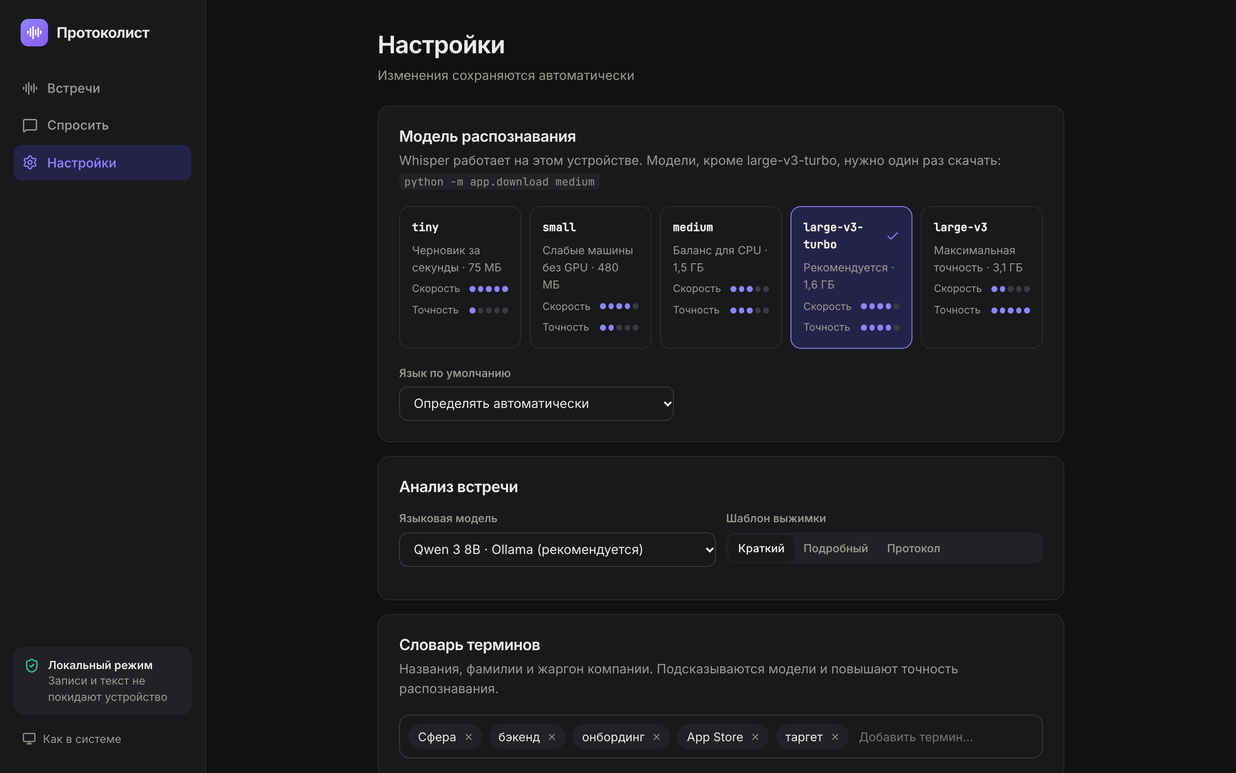
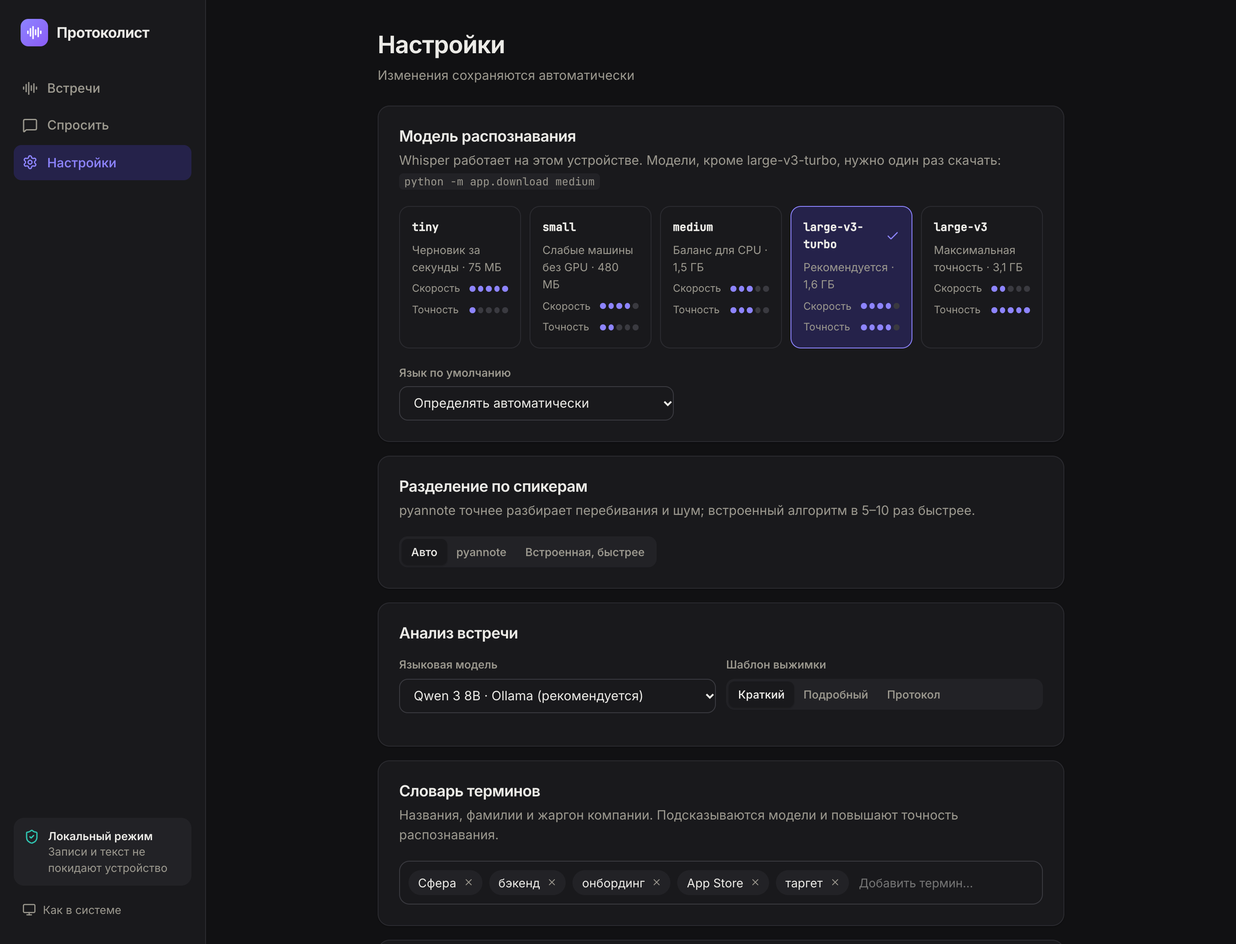
Diarization choice: pyannote community-1 or built-in clustering
- Settings switch (auto / pyannote / built-in); the API checks the model cache instead of loading it
- Bench compares both backends on two synthetic meetings
- Drop Whisper hallucination_silence_threshold: it cut real turns (WER 0.6% -> 5.2%)
- Speaker names: the LLM lists heard names, the code assigns them only from questions and answers
- Reprocess from recognition/diarization/analysis; clearer errors when Ollama is down

diff --git a/web/src/pages/Settings.tsx b/web/src/pages/Settings.tsx
@@ -96,6 +96,28 @@ export default function Settings() {
       </section>
 
       <section className="panel">
+        <h2>Разделение по спикерам</h2>
+        <p className="muted">
+          {s.pyannote_available
+            ? 'pyannote точнее разбирает перебивания и шум; встроенный алгоритм в 5–10 раз быстрее.'
+            : 'pyannote недоступна: примите условия модели на Hugging Face и выполните python -m app.download. Пока работает встроенный алгоритм.'}
+        </p>
+        <div className="seg-control">
+          {(
+            [
+              ['auto', 'Авто'],
+              ['pyannote', 'pyannote'],
+              ['clustering', 'Встроенная, быстрее'],
+            ] as const
+          ).map(([id, label]) => (
+            <button key={id} className={s.diarization === id ? 'on' : ''} onClick={() => set('diarization', id)} disabled={id === 'pyannote' && !s.pyannote_available}>
+              {label}
+            </button>
+          ))}
+        </div>
+      </section>
+
+      <section className="panel">
         <h2>Анализ встречи</h2>
         <div className="field-row">
           <label className="field">

diff --git a/web/src/api.ts b/web/src/api.ts
@@ -54,6 +54,8 @@ export type Settings = {
   template: string
   glossary: string[]
   deleteAudio: boolean
+  diarization: 'auto' | 'clustering' | 'pyannote'
+  pyannote_available?: boolean
 }
 
 export type Progress = Pick<MeetingBrief, 'status' | 'stage' | 'stage_progress' | 'error' | 'received' | 'size'>

diff --git a/bench/report.py b/bench/report.py
@@ -44,7 +44,7 @@ def main() -> None:
         if t and l:
             speedup = str(round(l["rtf"] / t["rtf"], 1)).replace(".", ",")
             out += ["", f"По умолчанию стоит large-v3-turbo: на farfield WER {pct(t['wer'])} против {pct(l['wer'])} у large-v3, а работает в {speedup} раза быстрее."]
-        d = load("diarization.json")
+        d = load("diarization.json").get("sfera")
         if d:
             rtf = str(round(d["asr_seconds"] / d["audio_seconds"], 2)).replace(".", ",")
             out += ["", f"RTF в таблице завышен для всех моделей: каждая фраза Golos длится 2–5 с, а Whisper обрабатывает окно в 30 с. На сплошной записи встречи turbo работает с RTF {rtf} ({d['audio_seconds']:.0f} с записи за {d['asr_seconds']:.0f} с, вместе с загрузкой модели)."]
@@ -52,16 +52,23 @@ def main() -> None:
 
     d = load("diarization.json")
     if d:
-        a, o = d["auto"], d["oracle_count"]
+        titles = {"sfera": "Планёрка, 4 спикера", "client": "Созвон с клиентом, 3 спикера"}
         out += [
-            f"**Диаризация** — синтетическая встреча из 16 реплик 4 спикеров ({d['audio_seconds']:.0f} с, `bench/make_synthetic.py`), встроенный алгоритм, DER с допуском 0,25 с на границах:",
+            "**Диаризация** — две синтетические встречи (`bench/make_synthetic.py`), DER с допуском 0,25 с на границах (меньше — лучше), число спикеров определяется автоматически:",
             "",
-            "| Число спикеров | Найдено | DER | Из них путаница спикеров |",
-            "|---|---|---|---|",
-            f"| определяется автоматически | {a['speakers_hyp']} из {a['speakers_ref']} | {pct(a['der'])} | {pct(a['confusion'])} |",
-            f"| задано пользователем | {o['speakers_hyp']} из {o['speakers_ref']} | {pct(o['der'])} | {pct(o['confusion'])} |",
+            "| Встреча | Встроенная (кластеризация) | pyannote community-1 |",
+            "|---|---|---|",
+        ]
+        for name, r in d.items():
+            c, p_ = r.get("clustering_auto"), r.get("pyannote_auto")
+            cell = lambda x: f"DER {pct(x['der'])}, {x['speakers_hyp']} из {x['speakers_ref']} спикеров, {str(x['seconds']).replace('.', ',')} с" if x else "—"  # noqa: E731
+            out.append(f"| {titles.get(name, name)} ({r['audio_seconds']:.0f} с) | {cell(c)} | {cell(p_)} |")
+        wers = ", ".join(f"{titles.get(n, n).split(',')[0].lower()} — {pct(r['wer'])}" for n, r in d.items())
+        out += [
             "",
-            f"WER всего пайплайна на этой записи — {pct(d['wer'])}. Синтетика — один голос TTS с разным тоном: это проверка на регрессии, а не оценка на реальных встречах.",
+            f"WER всего пайплайна на этих записях: {wers}. Синтетика — один голос TTS с разным тоном, без перебиваний и шума: "
+            "на ней встроенный алгоритм не хуже pyannote и в разы быстрее, но это проверка на регрессии, а не оценка на реальных встречах. "
+            "pyannote умеет разбирать одновременную речь, поэтому в режиме «Авто» используется она, если доступна; выбор — в настройках.",
             "",
         ]
 

diff --git a/bench/diarization.py b/bench/diarization.py
@@ -1,5 +1,5 @@
-"""Diarization on the synthetic 4-speaker meeting (bench/make_synthetic.py): DER with and without
-the speaker count, plus WER of the whole pipeline text.
+"""Diarization on the synthetic meetings (bench/make_synthetic.py): DER for pyannote and the built-in
+clustering, with and without the speaker count, plus WER of the whole pipeline text.
 
     python bench/diarization.py
 
@@ -21,36 +21,40 @@ from metrics import der, wer  # noqa: E402
 HERE = os.path.dirname(os.path.abspath(__file__))
 
 
-def main(name: str = "sfera") -> None:
+def main(names=("sfera", "client")) -> None:
     from app import ml
     from app.text import build_segments
 
-    ref = json.load(open(os.path.join(HERE, "data", f"{name}.json"), encoding="utf-8"))
-    tmp = tempfile.mkdtemp()
-    wav = os.path.join(tmp, "a.wav")
-    ml.prepare_audio(os.path.join(HERE, "data", f"{name}.wav"), wav, os.path.join(tmp, "a.m4a"))
-
-    t0 = time.perf_counter()
-    asr = ml.transcribe(wav, "large-v3-turbo", "ru", None, lambda f: None)
-    asr_time = time.perf_counter() - t0
-    out = {
-        "audio_seconds": round(ref["turns"][-1]["end"], 1),
-        "asr_seconds": round(asr_time, 1),
-        "wer": round(wer([" ".join(t["text"] for t in ref["turns"])], ["".join(w["word"] for w in asr["words"])]), 4),
-    }
-    for label, num in (("auto", None), ("oracle_count", ref["speakers"])):
+    backends = ["clustering"] + (["pyannote"] if ml.diarization_backend() == "pyannote" else [])
+    out = {}
+    for name in names:
+        ref = json.load(open(os.path.join(HERE, "data", f"{name}.json"), encoding="utf-8"))
+        tmp = tempfile.mkdtemp()
+        wav = os.path.join(tmp, "a.wav")
+        ml.prepare_audio(os.path.join(HERE, "data", f"{name}.wav"), wav, os.path.join(tmp, "a.m4a"))
         t0 = time.perf_counter()
-        turns, backend = ml.diarize(wav, num, lambda f: None, asr["words"])
-        spent = time.perf_counter() - t0
-        # Score what the user sees: speaker turns after aligning words to diarization.
-        segs = build_segments(asr["words"], turns)
-        hyp = [{"speaker": s["speaker"], "start": s["start"], "end": s["end"]} for s in segs]
-        out[label] = {**der(ref["turns"], hyp), "backend": backend, "seconds": round(spent, 1)}
-        print(label, out[label], flush=True)
-    print("wer", out["wer"], "asr", out["asr_seconds"], "s")
+        asr = ml.transcribe(wav, "large-v3-turbo", "ru", None, lambda f: None)
+        res = {
+            "audio_seconds": round(ref["turns"][-1]["end"], 1),
+            "speakers": ref["speakers"],
+            "asr_seconds": round(time.perf_counter() - t0, 1),
+            "wer": round(wer([" ".join(t["text"] for t in ref["turns"])], ["".join(w["word"] for w in asr["words"])]), 4),
+        }
+        for backend in backends:
+            for label, num in (("auto", None), ("oracle_count", ref["speakers"])):
+                t0 = time.perf_counter()
+                turns, _ = ml.diarize(wav, num, lambda f: None, asr["words"], backend=backend)
+                spent = time.perf_counter() - t0
+                # Score what the user sees: speaker turns after aligning words to diarization.
+                segs = build_segments(asr["words"], turns)
+                hyp = [{"speaker": s["speaker"], "start": s["start"], "end": s["end"]} for s in segs]
+                res[f"{backend}_{label}"] = {**der(ref["turns"], hyp), "seconds": round(spent, 1)}
+                print(name, backend, label, res[f"{backend}_{label}"], flush=True)
+        print(name, "wer", res["wer"], flush=True)
+        out[name] = res
     os.makedirs(os.path.join(HERE, "results"), exist_ok=True)
     json.dump(out, open(os.path.join(HERE, "results", "diarization.json"), "w"), indent=1)
 
 
 if __name__ == "__main__":
-    main()
+    main(tuple(sys.argv[1:]) or ("sfera", "client"))

diff --git a/backend/app/ml.py b/backend/app/ml.py
@@ -138,6 +138,13 @@ def _speaker_model():
     return model.eval().to(_device())
 
 
+def pyannote_downloaded() -> bool:
+    """Cheap check for the API: is the gated pipeline in the local Hugging Face cache?"""
+    from huggingface_hub import try_to_load_from_cache
+
+    return isinstance(try_to_load_from_cache(DIARIZATION_MODEL, "config.yaml"), str)
+
+
 @cache  # decided once per worker process; restart the worker after getting access to pyannote
 def diarization_backend() -> str:
     """'pyannote' when the gated pipeline is reachable, else 'clustering'."""
@@ -148,10 +155,11 @@ def diarization_backend() -> str:
         return "clustering"
 
 
-def diarize(wav: str, num_speakers: int | None, progress: Progress, words: list[dict]) -> tuple[list[dict], str]:
-    """Returns (turns, backend). Turns: [{"speaker", "start", "end"}]."""
+def diarize(wav: str, num_speakers: int | None, progress: Progress, words: list[dict], backend: str | None = None) -> tuple[list[dict], str]:
+    """Returns (turns, backend). Turns: [{"speaker", "start", "end"}].
+    backend: None picks pyannote when available; "clustering" / "pyannote" force one (bench)."""
     audio = load_wav(wav)
-    if diarization_backend() == "pyannote":
+    if (backend or diarization_backend()) == "pyannote":
         return _diarize_pyannote(audio, num_speakers, progress), "pyannote"
     return _diarize_clustering(audio, num_speakers, progress, words), "clustering"
 

diff --git a/backend/app/main.py b/backend/app/main.py
@@ -368,11 +368,12 @@ class SettingsBody(BaseModel):
     template: str = Field(pattern="^(short|full|protocol)$")
     glossary: list[str] = Field(max_length=200)
     deleteAudio: bool
+    diarization: str = Field(default="auto", pattern="^(auto|clustering|pyannote)$")
 
 
 @app.get("/api/settings")
 def read_settings(db=Depends(get_db)):
-    return get_settings(db)
+    return {**get_settings(db), "pyannote_available": ml.pyannote_downloaded()}
 
 
 @app.put("/api/settings")
@@ -381,7 +382,7 @@ def write_settings(body: SettingsBody, db=Depends(get_db)):
     row.data = body.model_dump()
     db.merge(row)
     db.commit()
-    return get_settings(db)
+    return read_settings(db)
 
 
 @app.get("/api/health")

diff --git a/backend/app/pipeline.py b/backend/app/pipeline.py
@@ -86,7 +86,9 @@ def stage_diarize(mid: str, progress: Reporter) -> None:
     with Session() as db:
         m = db.get(Meeting, mid)
         num, words = m.num_speakers, m.asr["words"]
-    turns, backend = ml.diarize(paths(mid)["wav"], num, progress, words)
+        choice = get_settings(db)["diarization"]
+    backend = choice if choice == "clustering" or (choice == "pyannote" and ml.diarization_backend() == "pyannote") else None
+    turns, backend = ml.diarize(paths(mid)["wav"], num, progress, words, backend=backend)
     segs = build_segments(words, turns)
 
     with Session.begin() as db:

diff --git a/backend/app/db.py b/backend/app/db.py
@@ -120,6 +120,7 @@ DEFAULT_SETTINGS = {
     "template": "short",
     "glossary": [],
     "deleteAudio": False,
+    "diarization": "auto",  # auto = pyannote when available; clustering = built-in, faster
 }
 
 

diff --git a/README.md b/README.md
@@ -41,8 +41,8 @@ React (Vite, TS) ──HTTP/SSE──▶ FastAPI ──▶ Postgres 16 + pgvecto
 Ключевые решения (подробно — в [ТЗ, раздел 9](docs/TZ.md#9-решения-принятые-по-ходу-работы)):
 
 - **Очередь — таблица в Postgres** (`FOR UPDATE SKIP LOCKED`), без Redis. Каждый этап сохраняет результат в базу, поэтому после перезапуска обработка продолжается с того же этапа.
-- **Своя диаризация**, когда закрытые модели pyannote недоступны: речь режется на фразы по паузам (по таймкодам слов и по энергии сигнала — Whisper растягивает слова на паузы), для каждой фразы считается эмбеддинг голоса WeSpeaker только по озвученным кадрам, длинные фразы кластеризуются, число спикеров подбирается по силуэту, короткие фразы наследуют спикера соседей, если голос не указывает однозначно на другого.
-- **Имена спикеров**: языковая модель предлагает, код проверяет — обращение по имени в начале реплики и ответ следующей репликой, либо представление «меня зовут…».
+- **Две диаризации на выбор**: pyannote community-1 (закрыта условиями на Hugging Face) и своя, которая работает без неё: речь режется на фразы по паузам (по таймкодам слов и по энергии сигнала — Whisper растягивает слова на паузы), для каждой фразы считается эмбеддинг голоса WeSpeaker только по озвученным кадрам, длинные фразы кластеризуются, число спикеров подбирается по силуэту, короткие фразы наследуют спикера соседей, если голос не указывает однозначно на другого.
+- **Имена спикеров**: языковая модель только перечисляет прозвучавшие имена, а кому какое принадлежит, решает код: вопрос по имени («Дмитрий, как думаешь…?») и ответ следующей репликой, либо «меня зовут…». Поручения («Марина, сделай…») не считаются — после них часто говорит другой человек. Лучше «Спикер 2», чем чужое имя.
 - **Анализ в два прохода**: обзор всей встречи и поиск решений/задач окнами по 40 реплик — маленькой модели проще быть внимательной на коротком фрагменте, и длинные встречи не упираются в контекст.
 - **Поиск**: косинусное сходство e5 плюс небольшой бонус за совпадение слов (полнотекстовый поиск Postgres); в RAG к каждой найденной реплике добавляются соседние.
 - **Память**: перед распознаванием модели Ollama выгружаются — на 16 ГБ Whisper рядом с загруженной LLM работал в 10 раз медленнее.
@@ -65,16 +65,16 @@ React (Vite, TS) ──HTTP/SSE──▶ FastAPI ──▶ Postgres 16 + pgvecto
 
 По умолчанию стоит large-v3-turbo: на farfield WER 19,5 % против 17,5 % у large-v3, а работает в 1,5 раза быстрее.
 
-RTF в таблице завышен для всех моделей: каждая фраза Golos длится 2–5 с, а Whisper обрабатывает окно в 30 с. На сплошной записи встречи turbo работает с RTF 0,15 (118 с записи за 17 с, вместе с загрузкой модели).
+RTF в таблице завышен для всех моделей: каждая фраза Golos длится 2–5 с, а Whisper обрабатывает окно в 30 с. На сплошной записи встречи turbo работает с RTF 0,12 (118 с записи за 14 с, вместе с загрузкой модели).
 
-**Диаризация** — синтетическая встреча из 16 реплик 4 спикеров (118 с, `bench/make_synthetic.py`), встроенный алгоритм, DER с допуском 0,25 с на границах:
+**Диаризация** — две синтетические встречи (`bench/make_synthetic.py`), DER с допуском 0,25 с на границах (меньше — лучше), число спикеров определяется автоматически:
 
-| Число спикеров | Найдено | DER | Из них путаница спикеров |
-|---|---|---|---|
-| определяется автоматически | 4 из 4 | 2,7 % | 0,1 % |
-| задано пользователем | 4 из 4 | 2,7 % | 0,1 % |
+| Встреча | Встроенная (кластеризация) | pyannote community-1 |
+|---|---|---|
+| Планёрка, 4 спикера (118 с) | DER 2,7 %, 4 из 4 спикеров, 2,4 с | DER 2,7 %, 4 из 4 спикеров, 13,3 с |
+| Созвон с клиентом, 3 спикера (81 с) | DER 1,5 %, 3 из 3 спикеров, 1,2 с | DER 3,8 %, 3 из 3 спикеров, 6,0 с |
 
-WER всего пайплайна на этой записи — 6,3 %. Синтетика — один голос TTS с разным тоном: это проверка на регрессии, а не оценка на реальных встречах.
+WER всего пайплайна на этих записях: планёрка — 6,3 %, созвон с клиентом — 0,6 %. Синтетика — один голос TTS с разным тоном, без перебиваний и шума: на ней встроенный алгоритм не хуже pyannote и в разы быстрее, но это проверка на регрессии, а не оценка на реальных встречах. pyannote умеет разбирать одновременную речь, поэтому в режиме «Авто» используется она, если доступна; выбор — в настройках.
 
 **Поиск** — 14 вопросов своими словами к той же встрече, у каждого известен правильный ответ (`bench/retrieval.py`). Recall@1 — правильная реплика на первом месте, Recall@3 — в первой тройке.
 
@@ -120,7 +120,7 @@ docker compose exec ollama ollama pull qwen3:8b
 
 ### Токен Hugging Face
 
-Для лучшей диаризации нужен доступ к [pyannote/speaker-diarization-community-1](https://huggingface.co/pyannote/speaker-diarization-community-1): примите условия на странице модели, создайте токен (Read) и впишите в `.env` как `HF_TOKEN`. Без доступа работает встроенная диаризация — пайплайн сам выберет доступный вариант.
+Для pyannote нужен доступ к [pyannote/speaker-diarization-community-1](https://huggingface.co/pyannote/speaker-diarization-community-1): примите условия на странице модели, создайте токен (Read), впишите в `.env` как `HF_TOKEN` и выполните `python -m app.download`. Без доступа работает встроенная диаризация; переключатель — в настройках.
 
 ## Тесты и бенчмарки
 
@@ -150,7 +150,7 @@ docs/TZ.md      техническое задание
 
 ## Ограничения и что дальше
 
-- Встроенная диаризация не разделяет одновременную речь двух людей; pyannote это умеет.
+- Встроенная диаризация не разделяет одновременную речь двух людей; pyannote это умеет. Сравнить их на реальных встречах с разметкой — следующий шаг.
 - Качество анализа встречи пока проверено на одной тестовой встрече: нужна разметка нескольких реальных встреч.
 - Очень длинные встречи (3+ часа) в обзорном проходе не влезут в контекст модели — нужна схема map-reduce.
 - Нет авторизации: сервис рассчитан на локальную работу или закрытую сеть.

diff --git a/docs/TZ.md b/docs/TZ.md
@@ -165,11 +165,12 @@ React SPA ──HTTP/SSE──▶ FastAPI ──▶ Postgres (встречи, р
 | Было в ТЗ | Сделано | Почему |
 |---|---|---|
 | Очередь arq + Redis | Очередь в Postgres (`FOR UPDATE SKIP LOCKED`) | Одним сервисом меньше; задачи и так переживают перезапуск, потому что лежат в базе |
-| pyannote 3.1 | pyannote community-1, а без доступа к ней — собственная диаризация | Модели pyannote закрыты условиями на Hugging Face. Собственный вариант (эмбеддинги WeSpeaker по фразам + кластеризация с подбором числа спикеров по силуэту) работает сразу; на тестовой записи DER 2,7 % |
+| pyannote 3.1 | pyannote community-1 и собственная диаризация, выбор в настройках | Модели pyannote закрыты условиями на Hugging Face. Собственный вариант (эмбеддинги WeSpeaker по фразам + кластеризация с подбором числа спикеров по силуэту) работает сразу. На двух синтетических встречах: своя — DER 2,7 % и 1,5 %, pyannote — 2,7 % и 3,8 %, своя в 5–10 раз быстрее. На синтетике нет перебиваний, поэтому по умолчанию — pyannote, если доступна |
 | Qwen 2.5 7B, один запрос | Qwen 3 8B, два запроса: обзор встречи и поиск решений/задач окнами по 40 реплик | На тестовой встрече один общий запрос к Qwen 2.5 7B дал 1 решение и 2 задачи; два узких запроса к Qwen 3 8B — 4 решения и 3 задачи с верными исполнителями. Нужна разметка на нескольких реальных встречах, чтобы мерить точно |
-| Имена спикеров не предусматривались | LLM предлагает имена, код проверяет их по стенограмме | Модель путала, кто к кому обращается; проверка оставляет только подтверждённые имена |
+| Имена спикеров не предусматривались | LLM перечисляет прозвучавшие имена, код сопоставляет их со спикерами | Модель путала, кто к кому обращается. Код засчитывает только вопрос по имени с ответом следующей репликой или представление |
 | Гибридный поиск с rank fusion и bge-reranker | Сходство векторов + небольшой бонус за совпадение слов | По bench/retrieval.py: полнотекстовый поиск находит нужную реплику первой в 36 % вопросов, векторы — в 79 %, а RRF ухудшал результат векторов. Reranker отложен до набора вопросов побольше |
 | Нарезка реплик на фрагменты для поиска | Один вектор на реплику | Реплики и так смысловые единицы; скользящие окна добавим, если длинные монологи начнут теряться |
+| — | Без `hallucination_silence_threshold` в Whisper | Опция против «галлюцинаций» в паузах выкидывала настоящие реплики: на созвоне WER 0,6 % → 5,2 % |
 | Whisper на всём железе одинаково | MLX на Apple Silicon, faster-whisper на Linux | faster-whisper не использует GPU Apple, MLX — использует; на M4 turbo распознаёт 2 минуты записи за ~13 с |
 
 ## 10. Критерии приёмки
